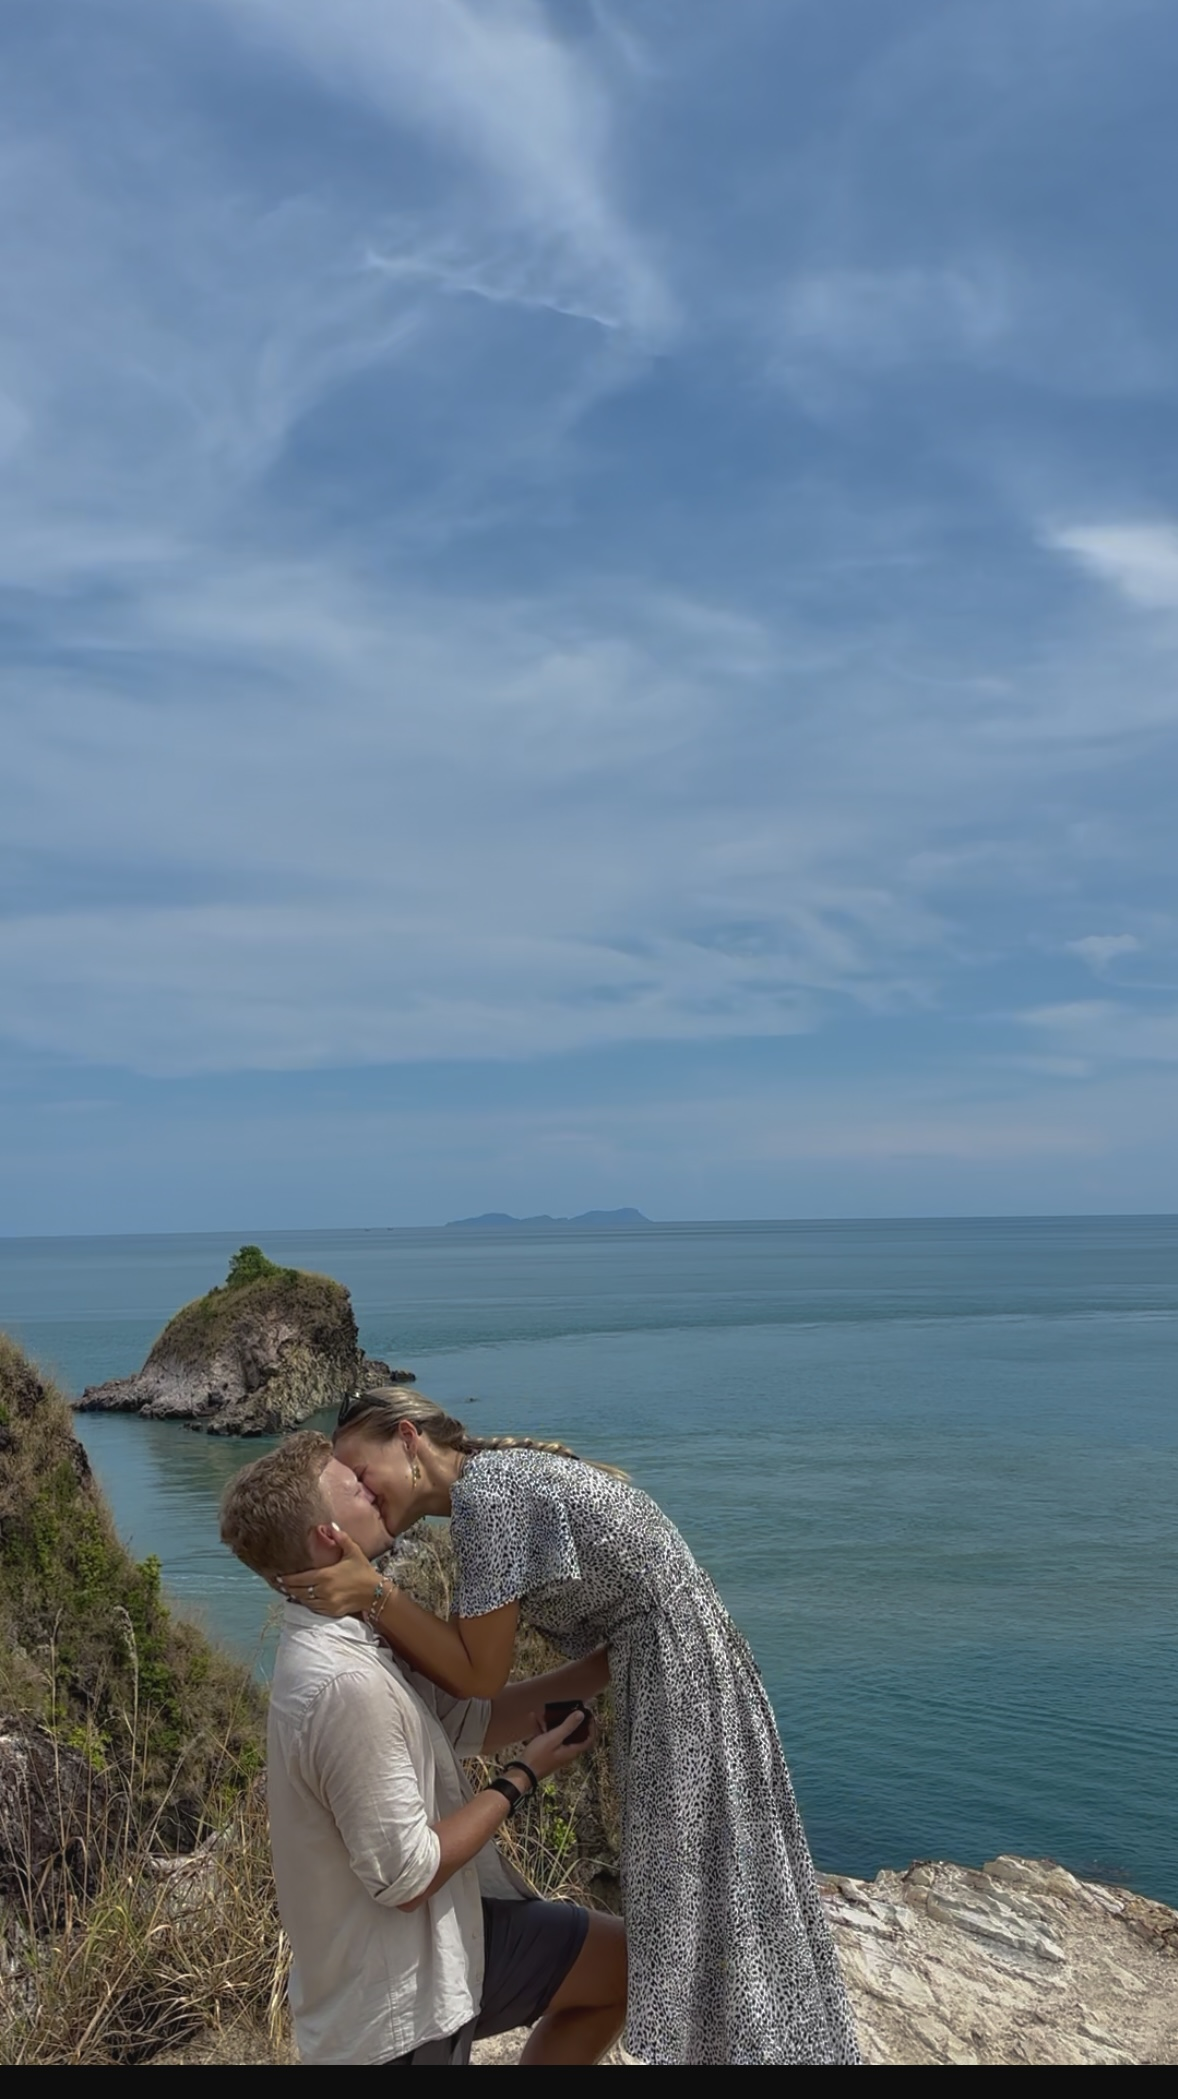
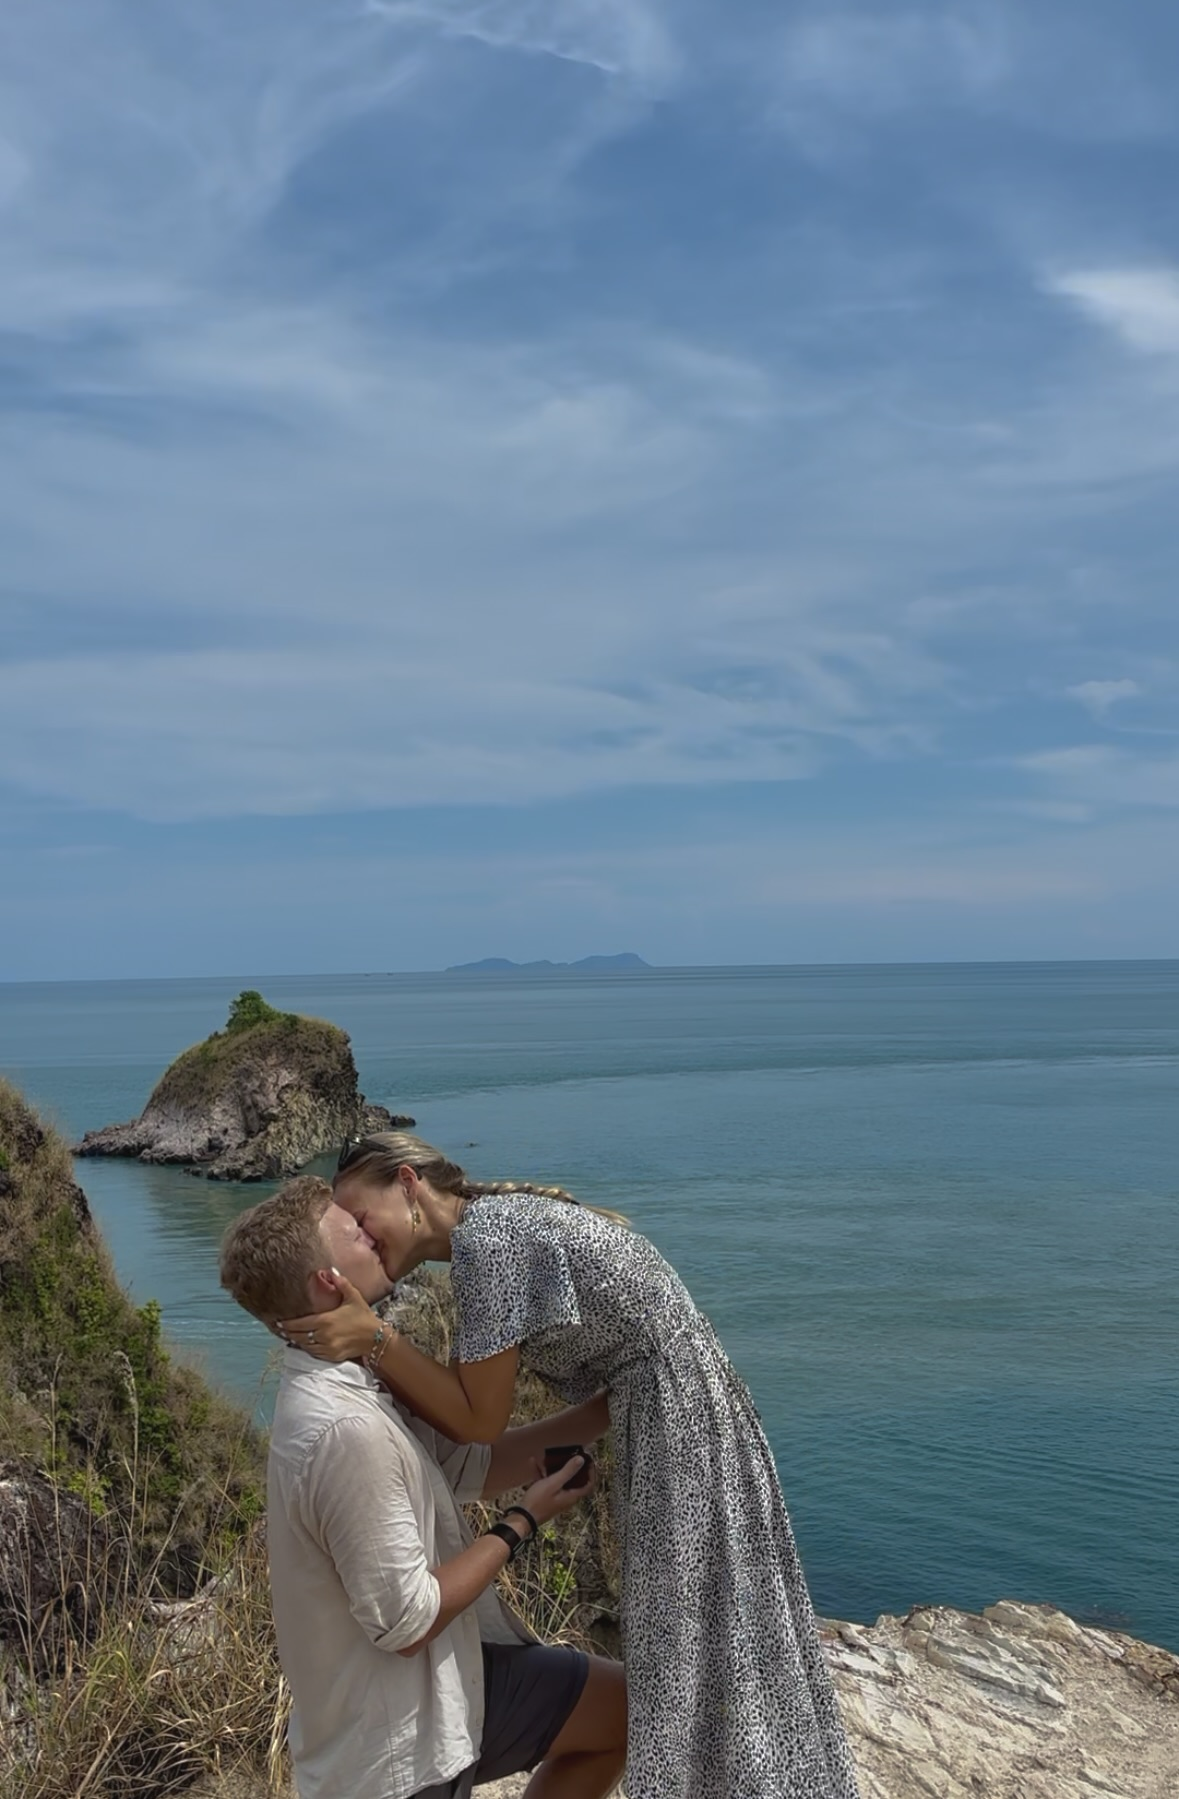
fiks

diff --git a/index.html b/index.html
@@ -384,20 +384,21 @@ body {
             color: var(--gold-accent);
         }
 
+       /* Selve gitteret med 3 kolonner */
         .gallery {
             display: grid;
-            grid-template-columns: repeat(auto-fill, minmax(250px, 1fr));
-            gap: 15px;
+            grid-template-columns: repeat(3, 1fr); /* Tvinger 3 billeder på hver række */
+            gap: 15px; /* Afstanden mellem billederne */
             margin-top: 40px;
         }
 
+        /* Billederne gøres til perfekte firkanter */
         .gallery img {
             width: 100%;
-            height: 280px; 
-            object-fit: cover;
-            border-radius: 4px;
-            box-shadow: 0 4px 12px rgba(0,0,0,0.06);
-            transition: transform 0.3s ease;
+            aspect-ratio: 1 / 1; /* Dette er tricket: Gør dem altid 100% kvadratiske */
+            object-fit: cover; /* Sørger for, at motivet fylder firkanten uden at blive strukket */
+            border-radius: 10px; /* Bevarer de bløde kanter */
+            display: block;
         }
 
         .gallery img:hover {
@@ -437,17 +438,7 @@ body {
                 padding: 30px 20px;
                 margin: 20px auto;
             }
-            
             /* Gør galleriet til to kolonner */
-            .gallery {
-                grid-template-columns: 1fr 1fr;
-            }
-            
-            .gallery img {
-                height: 150px;
-            }
-        }
-        }
     </style>
 </head>
 <body>